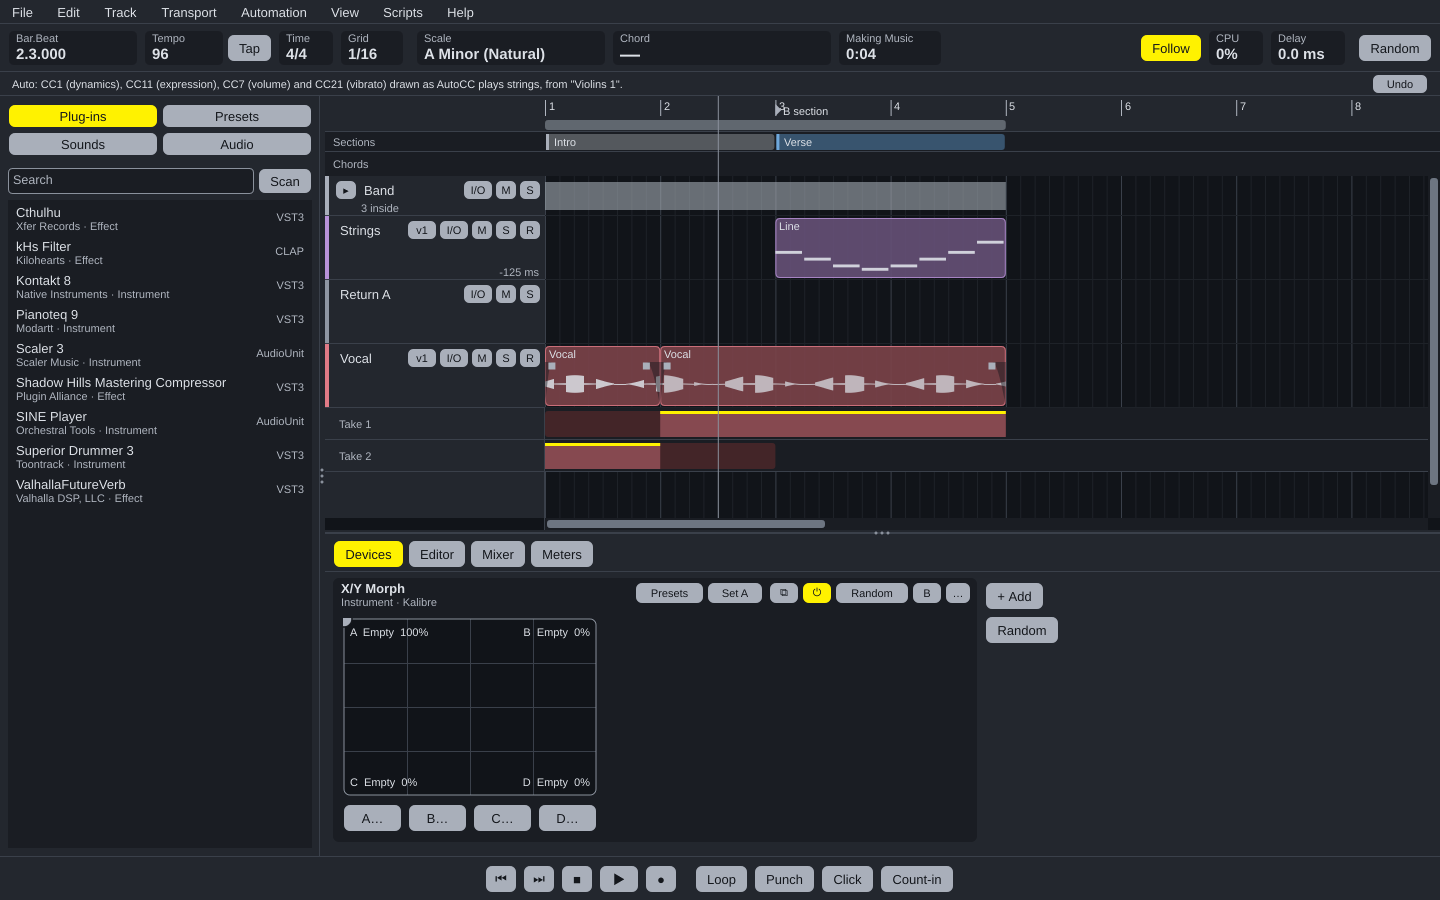
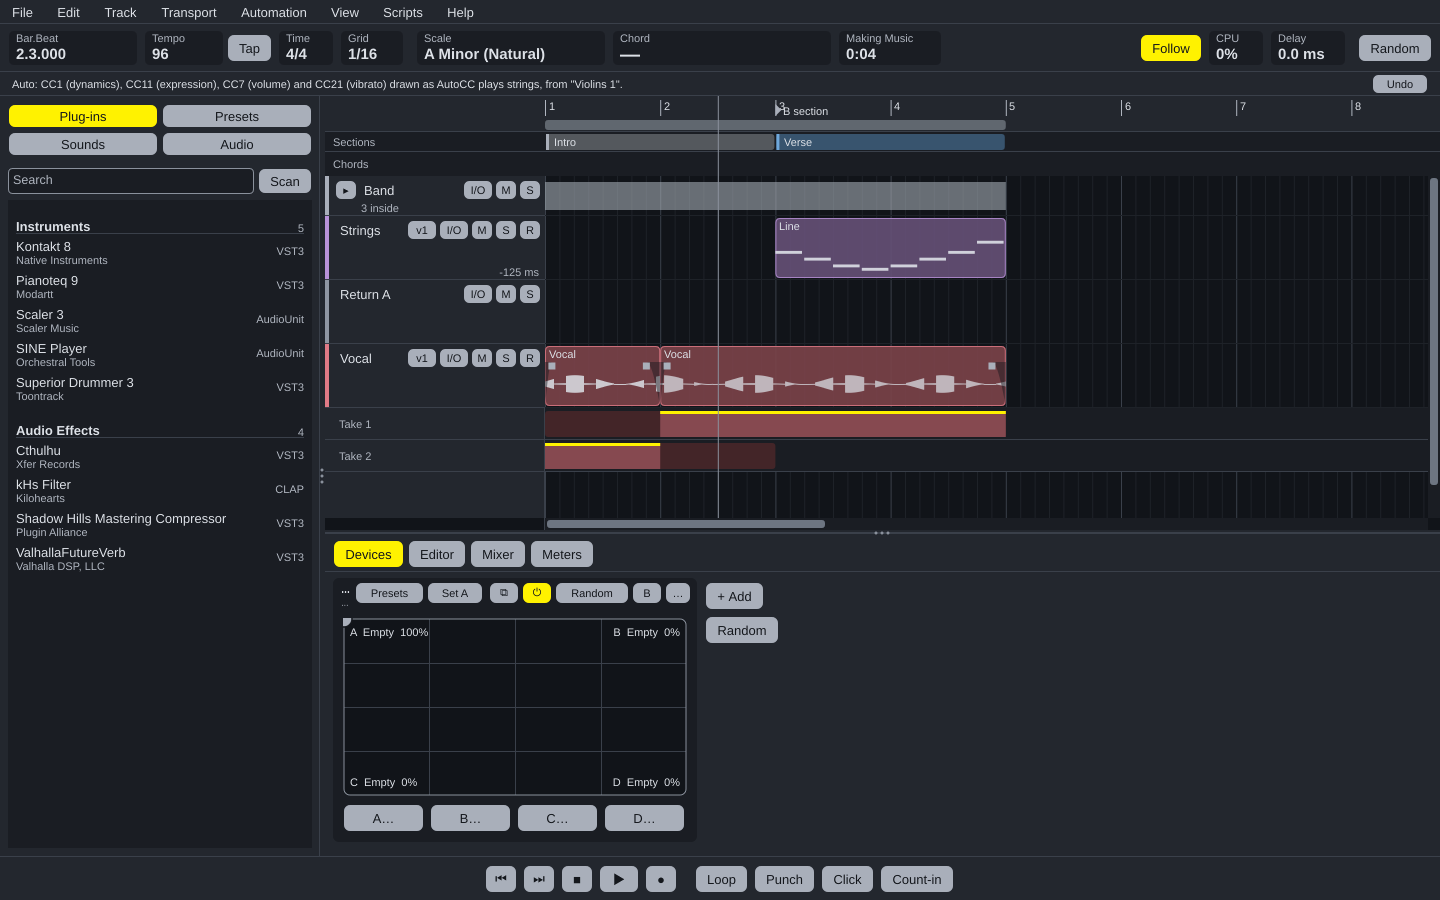
Browser: plug-ins under MIDI Effects, Instruments and Audio Effects; right-click Add to a New Track, Add to the Chosen Track, Show in Finder (0125)
Claude-Session: https://claude.ai/code/session_01RvNnZj6wTCGcy9LktcVXJC

diff --git a/Source/App/Browser.cpp b/Source/App/Browser.cpp
@@ -4,66 +4,119 @@ namespace kal
 {
 using namespace juce;
 
+// The plug-ins under three headings (0125): MIDI Effects, Instruments, Audio Effects.
 struct Browser::PluginList : public ListBoxModel
 {
     PluginList (Controller& ctrl) : c (ctrl) {}
 
+    struct Line { int heading = -1; int type = -1; int count = 0; };   // a heading (its role) or a plug-in
+    std::vector<Line> lines;
+
     void filter (const String& text)
     {
-        shown.clear();
+        lines.clear();
         const auto types = c.engine.plugins().known().getTypes();
+        std::vector<int> byRole[3];
         for (int i = 0; i < types.size(); ++i)
         {
             const auto& d = types.getReference (i);
             if (text.isEmpty() || d.name.containsIgnoreCase (text) || d.manufacturerName.containsIgnoreCase (text)
                 || d.pluginFormatName.containsIgnoreCase (text) || d.category.containsIgnoreCase (text))
-                shown.push_back (i);
+                byRole[(int) c.engine.plugins().roleOf (d)].push_back (i);
         }
-        std::sort (shown.begin(), shown.end(), [&types] (int a, int b) { return types[a].name.compareIgnoreCase (types[b].name) < 0; });
+        for (int r = 0; r < 3; ++r)
+        {
+            if (byRole[r].empty()) continue;
+            std::sort (byRole[r].begin(), byRole[r].end(), [&types] (int a, int b) { return types[a].name.compareIgnoreCase (types[b].name) < 0; });
+            lines.push_back ({ r, -1, (int) byRole[r].size() });
+            for (int i : byRole[r]) lines.push_back ({ -1, i, 0 });
+        }
     }
 
-    int getNumRows() override { return (int) shown.size(); }
+    const PluginDescription* at (int row) const
+    {
+        if (row < 0 || row >= (int) lines.size() || lines[(size_t) row].type < 0) return nullptr;
+        types = c.engine.plugins().known().getTypes();
+        return &types.getReference (lines[(size_t) row].type);
+    }
+
+    int getNumRows() override { return (int) lines.size(); }
 
     void paintListBoxItem (int row, Graphics& g, int w, int h, bool selected) override
     {
-        const auto types = c.engine.plugins().known().getTypes();
-        if (row < 0 || row >= (int) shown.size()) return;
-        const auto& d = types.getReference (shown[(size_t) row]);
+        if (row < 0 || row >= (int) lines.size()) return;
+        const auto& line = lines[(size_t) row];
+        if (line.heading >= 0)
+        {
+            const char* names[] { "MIDI Effects", "Instruments", "Audio Effects" };
+            g.setColour (theme::text);
+            g.setFont (theme::font (theme::bodyPoints, true));
+            g.drawText (names[line.heading], 8, 0, w - 60, h, Justification::bottomLeft, true);
+            g.setColour (theme::textSecondary);
+            g.setFont (theme::font (theme::smallPoints));
+            g.drawText (String (line.count), w - 60, 0, 52, h, Justification::bottomRight, false);
+            g.setColour (theme::rule);
+            g.fillRect (8, h - 1, w - 16, 1);
+            return;
+        }
+        const auto* d = at (row);
+        if (! d) return;
         if (selected) { g.setColour (theme::rule); g.fillRect (0, 0, w, h); }
         g.setColour (theme::text);
         g.setFont (theme::font());
-        g.drawText (d.name, 8, 0, w - 70, h * 3 / 5, Justification::bottomLeft, true);
+        g.drawText (d->name, 8, 0, w - 70, h * 3 / 5, Justification::bottomLeft, true);
         g.setColour (theme::textSecondary);
         g.setFont (theme::font (theme::smallPoints));
-        const char* role[] { "MIDI effect", "Instrument", "Effect" };
-        g.drawText (d.manufacturerName + " " + ui::u8 ("\xc2\xb7") + " " + role[(int) c.engine.plugins().roleOf (d)], 8, h * 3 / 5, w - 70, h * 2 / 5, Justification::topLeft, true);
-        g.drawText (d.pluginFormatName, w - 60, 0, 52, h, Justification::centredRight, false);
+        g.drawText (d->manufacturerName, 8, h * 3 / 5, w - 70, h * 2 / 5, Justification::topLeft, true);
+        g.drawText (d->pluginFormatName, w - 60, 0, 52, h, Justification::centredRight, false);
     }
 
     var getDragSourceDescription (const SparseSet<int>& rows) override
     {
-        if (rows.isEmpty()) return {};
-        return "plugin:" + String (shown[(size_t) rows[0]]);
+        if (rows.isEmpty() || ! at (rows[0])) return {};
+        return "plugin:" + String (lines[(size_t) rows[0]].type);
+    }
+
+    void addToChosen (const PluginDescription& d)
+    {
+        Id track = c.focusTrack;
+        if (track == 0) { c.addPluginOnNewTrack (d); return; }
+        c.addPlugin (track, d);
     }
 
     void listBoxItemDoubleClicked (int row, const MouseEvent&) override
     {
-        const auto types = c.engine.plugins().known().getTypes();
-        if (row < 0 || row >= (int) shown.size()) return;
-        Id track = c.focusTrack;
-        const auto& d = types.getReference (shown[(size_t) row]);
-        if (track == 0) track = c.addTrack (TrackKind::Track, d.name);
-        c.addPlugin (track, d);
+        if (const auto* d = at (row)) addToChosen (*d);
+    }
+
+    // Right-click: a new track with it, the chosen track, or where its file is.
+    void listBoxItemClicked (int row, const MouseEvent& e) override
+    {
+        const auto* found = at (row);
+        if (! found || ! e.mods.isPopupMenu()) return;
+        const auto d = *found;
+        PopupMenu m;
+        m.addItem ("Add to a New Track", [this, d] { c.addPluginOnNewTrack (d); });
+        m.addItem ("Add to the Chosen Track", c.project.track (c.focusTrack) != nullptr, false, [this, d] { addToChosen (d); });
+        m.addSeparator();
+        const auto file = Controller::pluginFile (d);
+        m.addItem ("Show in Finder", file.exists(), false, [file] { file.revealToUser(); });
+        m.showMenuAsync (PopupMenu::Options());
     }
 
     String getNameForRow (int row) override
     {
-        const auto types = c.engine.plugins().known().getTypes();
-        return row >= 0 && row < (int) shown.size() ? types[shown[(size_t) row]].name : String();
+        if (row >= 0 && row < (int) lines.size() && lines[(size_t) row].heading >= 0)
+        {
+            const char* names[] { "MIDI Effects", "Instruments", "Audio Effects" };
+            return names[lines[(size_t) row].heading];
+        }
+        const auto* d = at (row);
+        return d ? d->name : String();
     }
 
     Controller& c;
-    std::vector<int> shown;
+    mutable Array<PluginDescription> types;
 };
 
 struct Browser::PresetList : public ListBoxModel

diff --git a/Tests/App/TestWindow.cpp b/Tests/App/TestWindow.cpp
@@ -529,3 +529,70 @@ TEST ("questions: shown near the top, under the top bar, across the middle (the 
     CHECK (tall.getBottom() <= 300);
     CHECK (tall.getY() >= 0);
 }
+
+TEST ("browser: plug-ins under MIDI Effects, Instruments and Audio Effects; right-click Add to a New Track is one undo step (0125)")
+{
+    theme::LookAndFeel look;
+    LookAndFeel::setDefaultLookAndFeel (&look);
+    {
+        PluginManager plugins;
+        Engine engine (plugins);
+        Controller c (engine);
+        c.project = Project();
+        auto describe = [] (const String& name, bool instrument)
+        {
+            PluginDescription d;
+            d.name = name;
+            d.pluginFormatName = "Kalibre";
+            d.fileOrIdentifier = "test-gain:0";
+            d.manufacturerName = "Tests";
+            d.isInstrument = instrument;
+            d.category = instrument ? "Instrument" : "Effect";
+            d.numInputChannels = instrument ? 0 : 2;
+            d.numOutputChannels = 2;
+            d.uniqueId = name.hashCode();
+            return d;
+        };
+        plugins.known().addType (describe ("Zeta Verb", false));
+        plugins.known().addType (describe ("Alpha Synth", true));
+        plugins.known().addType (describe ("Beta Comp", false));
+        MainComponent w (c);
+        w.setSize (1440, 900);
+        w.showBrowser (Browser::Tab::Plugins);
+        Browser* browser = nullptr;
+        for (auto* ch : w.getChildren()) if (auto* b = dynamic_cast<Browser*> (ch)) browser = b;
+        CHECK (browser != nullptr);
+        if (! browser) return;
+        auto* model = browser->pluginList().getListBoxModel();
+        StringArray rows;
+        for (int i = 0; i < model->getNumRows(); ++i) rows.add (model->getNameForRow (i));
+        // Instruments before Audio Effects, each A to Z under its heading.
+        // Instruments (Kalibre's own among them) before Audio Effects, each A to Z under its heading.
+        const int inst = rows.indexOf ("Instruments"), fx = rows.indexOf ("Audio Effects");
+        CHECK (inst >= 0 && fx > inst);
+        CHECK (rows.indexOf ("Alpha Synth") == inst + 1);
+        CHECK (rows.indexOf ("Beta Comp") == fx + 1 && rows.indexOf ("Zeta Verb") == fx + 2);
+        CHECK (! rows.contains ("MIDI Effects"));   // none of those here: no heading
+        // A heading can't be dragged; a plug-in can.
+        SparseSet<int> heading, plugin;
+        heading.addRange ({ inst, inst + 1 });
+        plugin.addRange ({ inst + 1, inst + 2 });
+        CHECK (model->getDragSourceDescription (heading).isVoid());
+        CHECK (model->getDragSourceDescription (plugin).toString().startsWith ("plugin:"));
+
+        // Add to a New Track: a track named for it, with it on, one undo step.
+        const auto tracks = c.project.tracks.size();
+        const auto steps = c.history.size();
+        const Id t = c.addPluginOnNewTrack (describe ("Beta Comp", false));
+        CHECK (t != 0);
+        CHECK_EQ (c.project.tracks.size(), tracks + 1);
+        CHECK_EQ (c.history.size(), steps + 1);
+        if (auto* track = c.project.track (t))
+        {
+            CHECK_EQ (track->name, std::string ("Beta Comp"));
+            CHECK_EQ (track->devices.size(), size_t (1));
+        }
+        CHECK_EQ (c.focusTrack, t);
+    }
+    LookAndFeel::setDefaultLookAndFeel (nullptr);
+}

diff --git a/Source/App/Controller.cpp b/Source/App/Controller.cpp
@@ -2059,6 +2059,39 @@ void Controller::addPlugin (Id track, const PluginDescription& d, std::optional<
     sendChangeMessage();
 }
 
+Id Controller::addPluginOnNewTrack (const PluginDescription& d)
+{
+    const auto ref = PluginManager::refFor (d);
+    const auto role = engine.plugins().roleOf (d);
+    Id track = 0, made = 0;
+    const Id after = focusTrack;
+    apply ("New Track with " + d.name, [&] (Project& p)
+    {
+        track = edit::addTrack (p, TrackKind::Track, d.name.toStdString(), p.track (after) ? after : 0);
+        made = edit::addDevice (p, track, ref, role);
+    });
+    if (track == 0) return 0;
+    focusTrack = track;
+    selectedTracks = { track };
+    if (made && ! engine.instance (made)) say (d.name + " couldn't be loaded.", true);
+    zoneTab = ZoneTab::Devices;
+    sendChangeMessage();
+    return track;
+}
+
+File Controller::pluginFile (const PluginDescription& d)
+{
+    const File direct (d.fileOrIdentifier);
+    if (File::isAbsolutePath (d.fileOrIdentifier) && direct.exists()) return direct;
+    // An Audio Unit is known by its codes: its bundle is looked for by name where AUs live.
+    for (auto dir : { File::getSpecialLocation (File::userHomeDirectory).getChildFile ("Library/Audio/Plug-Ins/Components"),
+                      File ("/Library/Audio/Plug-Ins/Components") })
+        for (auto& f : dir.findChildFiles (File::findDirectories, false, "*.component"))
+            if (f.getFileNameWithoutExtension().equalsIgnoreCase (d.name) || f.getFileNameWithoutExtension().equalsIgnoreCase (d.descriptiveName))
+                return f;
+    return {};
+}
+
 // A Lua tool's block, into the song (decision 0068): one part on the
 // device's own track at the playhead; several, a new track each under it,
 // named for its instrument. One undo step either way.

diff --git a/Source/App/Controller.h b/Source/App/Controller.h
@@ -370,6 +370,10 @@ public:
     // Devices.
     // `position`: where in the track's devices (its role's place still kept); -1, after its kind.
     void addPlugin (Id track, const juce::PluginDescription&, std::optional<DeviceRole> as = {}, int position = -1);
+    // A new track, named for the plug-in, with it on: one undo step (the browser, 0125).
+    Id addPluginOnNewTrack (const juce::PluginDescription&);
+    // Where a plug-in's file is on this Mac (its bundle), or none (0125).
+    static juce::File pluginFile (const juce::PluginDescription&);
     void addBuiltIn (Id track, const PluginRef&, DeviceRole);
     // The Note Splitter (decision 0083): how many outputs, the track each goes to,
     // and a new track for each output without one. Each one undo step.

diff --git a/Source/App/Browser.h b/Source/App/Browser.h
@@ -37,6 +37,7 @@ public:
     void showTab (Tab);
     Tab shownTab() const { return tab; }
     LibraryView& library() { return *sounds; }
+    juce::ListBox& pluginList() { return pluginBox; }   // tests
 
 private:
     Controller& c;

diff --git a/docs/decisions/0125-the-browsers-plug-ins-by-kind.md b/docs/decisions/0125-the-browsers-plug-ins-by-kind.md
@@ -1,0 +1,25 @@
+# 0125. The browser's plug-ins by kind, and right-click
+
+## Context
+
+Asked (22 November): in the browser, plug-ins separated into MIDI effects,
+instruments and effects; right-clicking one should add it to a new track or
+show it in the Finder. Then: the other tabs should have right-click options
+like the Sounds tab's.
+
+## Decision
+
+- **Plug-ins**: three headings, MIDI Effects, Instruments, Audio Effects (as
+  the plug-in is filed: what the scan learned or the musician chose, 0069),
+  each with how many, each A to Z; a heading isn't dragged or chosen.
+  Right-click a plug-in: **Add to a New Track** (named for it, after the
+  chosen track, one undo step, `Controller::addPluginOnNewTrack`), **Add to
+  the Chosen Track** (as a double-click), **Show in Finder** (its bundle; an
+  Audio Unit's looked for by name where they live; greyed when not found).
+- **Presets**: right-click a preset: Load, Load on a New Track, Show in
+  Finder, Delete… (asked first).
+
+## Consequences
+
+Tested: the headings, their order, a heading not dragged, a plug-in on a new
+track as one undo step. Show in Finder isn't tested (it opens the Finder).

diff --git a/docs/USER-GUIDE.md b/docs/USER-GUIDE.md
@@ -1125,7 +1125,7 @@ Four tabs, in two rows:
 
 | Tab | What's in it |
 | --- | --- |
-| **Plug-ins** | Every plug-in found, by kind. Search; drag one onto a track or into the rack. **Scan** looks for new ones. |
+| **Plug-ins** | Every plug-in found, under **MIDI Effects**, **Instruments** and **Audio Effects**. Search; drag one onto a track or into the rack; double-click to add it to the chosen track. Right-click: **Add to a New Track** (one undo step), **Add to the Chosen Track**, **Show in Finder**. **Scan** looks for new ones. |
 | **Sounds** | Your samples and MIDI files, to hear and bring into the song ([below](#the-sounds-tab)). |
 | **Audio** | The audio interface, sample rate (as high as the interface goes: 44.1 to 192 kHz) and buffer size, inputs and outputs; **Use Every Core** (on unless you switch it off). |
 | **Presets** | Saved presets for the chosen track's plug-ins. |

diff --git a/docs/decisions/README.md b/docs/decisions/README.md
@@ -126,3 +126,4 @@ One record per choice that could reasonably have gone the other way. Referred to
 - [0122. Sync changes the sound playing](0122-sync-changes-the-sound-playing.md)
 - [0123. The Sounds in six orders](0123-the-sounds-in-six-orders.md)
 - [0124. Humanise](0124-humanise.md)
+- [0125. The browser's plug-ins by kind, and right-click](0125-the-browsers-plug-ins-by-kind.md)
